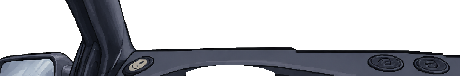
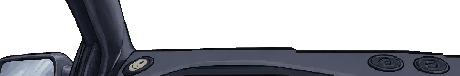
Diablo: cabine mais baixa (mais pista à vista) e sem o vão no painel; F40 e V12 com ronco mais grave e encorpado
Claude-Session: https://claude.ai/code/session_01MLD9VR7gkmY4w6a9beZcp6

Changed region(s): [[0.3957, 0.8421, 0.6087, 1.0]]

diff --git a/src/enginesynth.ts b/src/enginesynth.ts
@@ -39,12 +39,12 @@ const BASE: Record<string, Omit<EngineSpec, 'name' | 'turbo'>> = {
   v6: { cyl: 6, events: even(6), banks: alt(6), pipeMs: [2.7, 3.2], fb: 0.38, res: [[130, 1.2, 1], [700, 2.2, 0.65], [2100, 3, 0.35]], pulse: 2.1, drive: 2, rasp: 0.16, low: 1000, jitter: 0.06, pops: 0.35, vol: 1.0, idle: 850, redline: 7600 },
   // V8 virabrequim cruzado: as bancadas disparam em sequência irregular (E D E E D E D D) → batuque
   v8: { cyl: 8, events: even(8), banks: [0, 1, 0, 0, 1, 0, 1, 1], pipeMs: [3.4, 4.6], fb: 0.45, res: [[95, 1, 1.15], [380, 1.8, 0.6], [1300, 3, 0.25]], pulse: 2.8, drive: 2.2, rasp: 0.1, low: 700, jitter: 0.1, pops: 0.6, vol: 0.85, idle: 700, redline: 6600 },
-  // V8 virabrequim plano (Ferrari): bancadas alternadas, grito agudo
-  v8flat: { cyl: 8, events: even(8), banks: alt(8), pipeMs: [2.4, 2.6], fb: 0.36, res: [[150, 1.2, 0.9], [760, 2, 0.7], [2400, 3, 0.4]], pulse: 1.8, drive: 2.1, rasp: 0.16, low: 1100, jitter: 0.04, pops: 0.5, vol: 0.85, idle: 900, redline: 7750 },
+  // V8 virabrequim plano (Ferrari): bancadas alternadas, rosnado rouco que abre em giro alto
+  v8flat: { cyl: 8, events: even(8), banks: alt(8), pipeMs: [3.0, 3.4], fb: 0.44, res: [[115, 1.1, 1.15], [460, 1.8, 0.7], [1500, 2.6, 0.28]], pulse: 2.4, drive: 2.0, rasp: 0.1, low: 800, jitter: 0.05, pops: 0.5, vol: 0.85, idle: 900, redline: 7750 },
   // V10: 72°, metálico e rouco
   v10: { cyl: 10, events: even(10), banks: [0, 1, 0, 1, 1, 0, 1, 0, 0, 1], pipeMs: [3.0, 3.6], fb: 0.42, res: [[120, 1.1, 1], [560, 2, 0.7], [1900, 3, 0.4]], pulse: 2.0, drive: 2.3, rasp: 0.18, low: 950, jitter: 0.06, pops: 0.5, vol: 0.8, idle: 800, redline: 6200 },
-  // V12: 60°, liso e agudo, quase uma sirene
-  v12: { cyl: 12, events: even(12), banks: alt(12), pipeMs: [2.2, 2.4], fb: 0.32, res: [[160, 1.2, 0.85], [820, 2, 0.75], [2600, 3, 0.4]], pulse: 1.6, drive: 1.7, rasp: 0.1, low: 1200, jitter: 0.03, pops: 0.45, vol: 0.8, idle: 900, redline: 7500 },
+  // V12: 60°, liso e encorpado, cresce num uivo em giro alto
+  v12: { cyl: 12, events: even(12), banks: alt(12), pipeMs: [3.0, 3.5], fb: 0.44, res: [[105, 1.1, 1.15], [420, 1.8, 0.75], [1350, 2.6, 0.3]], pulse: 2.3, drive: 1.8, rasp: 0.07, low: 820, jitter: 0.04, pops: 0.45, vol: 0.8, idle: 850, redline: 7100 },
   // W8: duas bancadas em V estreito, firme e grave
   w8: { cyl: 8, events: even(8), banks: [0, 1, 1, 0, 1, 0, 0, 1], pipeMs: [3.0, 3.4], fb: 0.4, res: [[110, 1.1, 1], [480, 2, 0.6], [1600, 3, 0.3]], pulse: 2.4, drive: 1.9, rasp: 0.12, low: 850, jitter: 0.06, pops: 0.35, vol: 0.85, idle: 750, redline: 6500 },
   // W12: liso como V12, mais encorpado
@@ -56,7 +56,7 @@ const BASE: Record<string, Omit<EngineSpec, 'name' | 'turbo'>> = {
   // boxer 6 (959): rouco e metálico
   flat6: { cyl: 6, events: even(6), banks: [0, 1, 0, 1, 0, 1], pipeMs: [2.8, 3.1], fb: 0.42, res: [[130, 1.2, 1], [650, 2.2, 0.7], [2200, 3, 0.4]], pulse: 2.0, drive: 2, rasp: 0.2, low: 1000, jitter: 0.05, pops: 0.35, vol: 0.95, idle: 900, redline: 7600 },
   // boxer 12 (Testarossa): encorpado com rosnado
-  flat12: { cyl: 12, events: even(12), banks: alt(12), pipeMs: [2.6, 3.0], fb: 0.38, res: [[130, 1.1, 1], [640, 2, 0.7], [2200, 3, 0.4]], pulse: 1.8, drive: 1.9, rasp: 0.14, low: 1050, jitter: 0.04, pops: 0.45, vol: 0.8, idle: 900, redline: 7000 },
+  flat12: { cyl: 12, events: even(12), banks: alt(12), pipeMs: [2.9, 3.3], fb: 0.42, res: [[115, 1.1, 1.1], [500, 1.9, 0.7], [1700, 2.8, 0.32]], pulse: 2.1, drive: 1.9, rasp: 0.12, low: 900, jitter: 0.04, pops: 0.45, vol: 0.8, idle: 900, redline: 7000 },
 };
 
 // tipo de motor pela ficha ("V8 biturbo", "Boxer 6 biturbo", "12 cil. boxer", "4 cil. turbo"...)

diff --git a/src/cockpit.ts b/src/cockpit.ts
@@ -27,6 +27,7 @@ interface CockpitArt {
   dashMask?: string; // partes na cor do carro (capô, porta, colunas), para a repintura
   topMask?: string;
   radar?: [number, number]; // canto do detector de radar no painel (padrão 206, 22)
+  dy?: number; // desce a cabine inteira (painel alto demais tapando a pista)
   wheelDx?: number; // desloca o volante para a direita (alinha com o quadro de instrumentos)
   pivot: [number, number]; // centro do aro (pixels nativos, a partir do topo da arte)
   tach?: Dial;
@@ -61,7 +62,7 @@ type Gauge = 'oil' | 'water' | 'oiltemp' | 'fuel' | 'boost' | 'volt';
 interface Aux { x: number; y: number; r: number; kind: 'single' | 'dual' | 'twin' | 'clock' | 'combo'; show?: Gauge[]; icon?: keyof typeof ICONS; labels?: string[] }
 
 // a arte cobre da linha 100 da tela até o fim (124 linhas); o topo transparente mostra a estrada
-const ART_TOP = 100;
+let ART_TOP = 100; // linha da tela onde começa a arte do painel (cada cabine pode descer: art.dy)
 const DASH_PAD = 102; // colunas extras de cada lado do painel (telas largas), ver import_cockpit.py
 const DASH_W = 256 + 2 * DASH_PAD;
 const TOP_EXT = 76; // linhas do teto (24) até o topo da arte
@@ -124,7 +125,7 @@ COCKPIT_ART.patrol = {
 // laranja; à esquerda temperatura e pressão do óleo, no meio a água, à direita combustível e relógio
 COCKPIT_ART.diablo = {
   dash: cp('diablo-dash'), top: cp('diablo-top'), wheel: cp('diablo-wheel'),
-  pivot: [128, 103], wheelDx: 10, radar: [196, 6], speedMax: 360, needle: '#ff7a1a', hub: '#1a1a1c',
+  pivot: [128, 103], dy: 14, wheelDx: 10, radar: [196, 6], speedMax: 360, needle: '#ff7a1a', hub: '#1a1a1c',
   speed: { x: 103.5, y: 40, r: 23, max: 360, labels: [0, 40, 80, 120, 160, 200, 240, 280, 320, 360], nudge: { 120: [-0.5, 0.5], 160: [-2.5, 0.5], 200: [1.5, 0], 240: [0.5, 0.5] }, tick: 10, red: 999, labelScale: 0.7 },
   tach: { x: 178.5, y: 39.5, r: 23, max: 9, labels: [0, 1, 2, 3, 4, 5, 6, 7, 8, 9], labelMul: 10, tick: 0.25, yellow: 6.8, red: 7.2, labelScale: 0.7, redLabels: false },
   aux: [
@@ -178,6 +179,9 @@ function drawCockpitArt(c: CanvasRenderingContext2D, r: Race, dt: number, art: C
   if (top) {
     if (dx > 0) c.drawImage(top, 0, 0, 2, TOP_EXT, 0, ART_TOP - TOP_EXT, dx, TOP_EXT);
     c.drawImage(top, dx, ART_TOP - TOP_EXT);
+    // cabine rebaixada: a primeira linha do topo (colunas) sobe até o teto, sem vão
+    const gap = ART_TOP - TOP_EXT - ROOF_H;
+    if (gap > 0) c.drawImage(top, 0, 0, DASH_W, 1, dx, ROOF_H, DASH_W, gap + 1);
   }
   // retrovisor externo esquerdo funcionando (onde a arte mostra o vidro dele)
   const glass = findGlass(art.dash, svgSprite(art.top, DASH_W, TOP_EXT), svgSprite(art.dash, DASH_W, 124) ?? dash, DASH_PAD + 90);
@@ -808,6 +812,7 @@ export function renderCockpit(c: CanvasRenderingContext2D, r: Race, lives: numbe
   const { w } = view;
   const vp = windshield();
   const art = COCKPIT_ART[r.car.dash];
+  ART_TOP = 100 + (art?.dy ?? 0);
   // nas cabines desenhadas, os vidros laterais vão abaixo do painel: a estrada desce até o fim
   renderRoad(c, r, art ? { ...vp, h: view.h - vp.y } : vp);
   weather(c, r, vp, dt);
